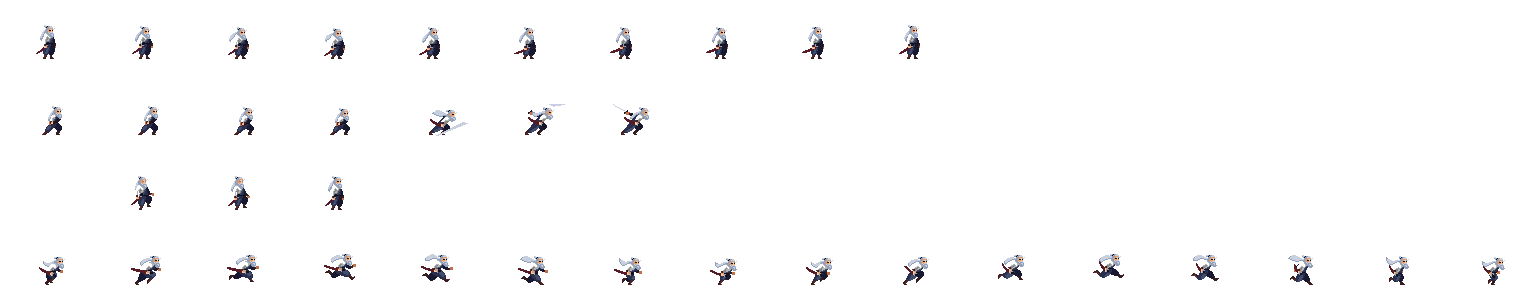
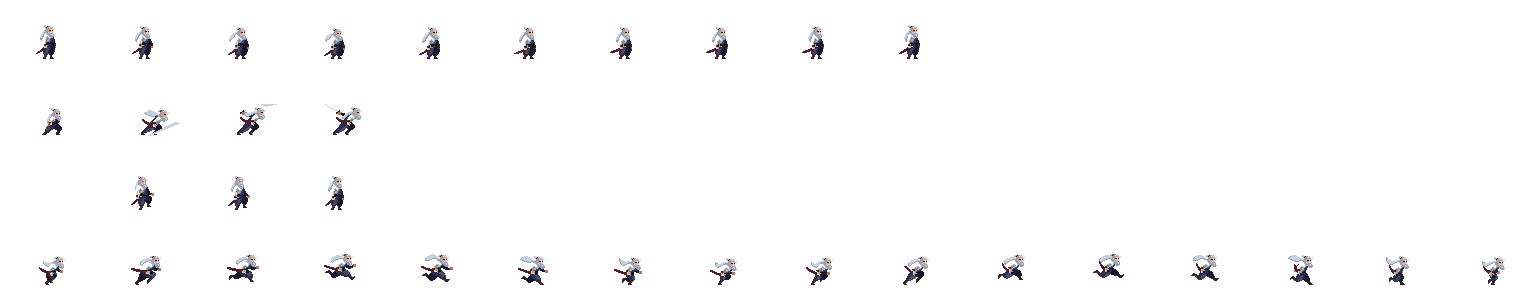
sua nv danh delay

diff --git a/oop_12/src/entities/PlayerCharacter.java b/oop_12/src/entities/PlayerCharacter.java
@@ -7,15 +7,15 @@ import static utilz.Constants.PlayerConstants.*;
 
 public enum PlayerCharacter {
 
-    SAMURAI(10, 16, 10, 10, 7, 4, 4,
+    SAMURAI(10, 16, 10, 10, 4, 4, 4,
             0, 3, 0, 0, 1, 2, 2,
             LoadSave.PLAYER_SAMURAI, 4, 16, 96, 75,
-            18, 25, 35, 33),
+            19, 30, 35, 27),
     HERO(7, 8, 3, 2, 6, 4, 12,
             0, 1, 2, 3, 4, 5, 6,
             LoadSave.PLAYER_HERO, 7, 12, 96, 84,
             25, 30, 35, 30),
-    WARRIOR(6, 6, 6, 6, 6, 6, 6,
+    WARRIOR(6, 6, 6, 6, 4, 3, 6,
             0, 1, 7, 7, 3, 4, 5,
             LoadSave.PLAYER_WARRIOR, 17, 6, 69, 44,
             18, 25, 17, 18);
